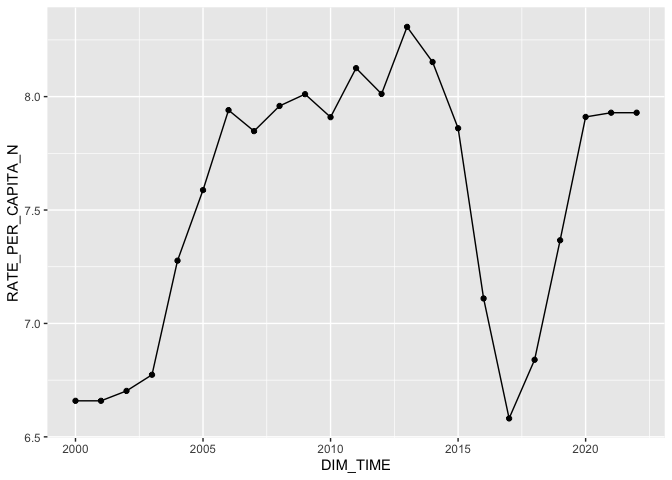
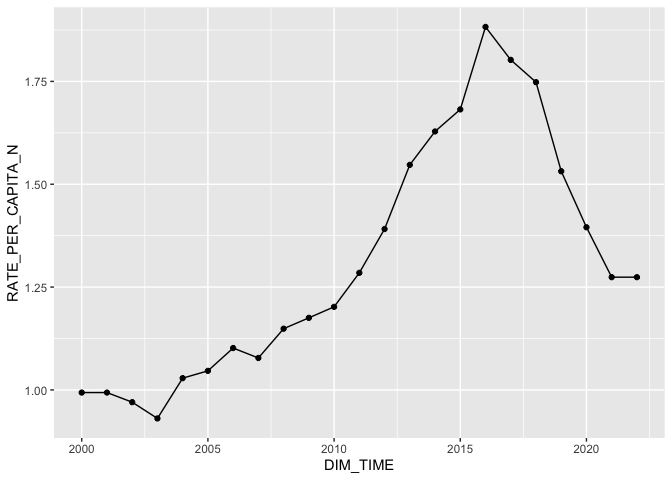
Messing around with plot themes and ribbon plot

diff --git a/simple_graphs.md b/simple_graphs.md
@@ -22,84 +22,84 @@ country <- unique(alcohol_country$GEO_NAME_SHORT)[[sample(1:length(unique(alcoho
 filter(alcohol_country, GEO_NAME_SHORT == country)
 ```
 
-    ##      X GEO_NAME_SHORT ParentLocationCode ParentLocation SpatialDimValueCode
-    ## 1  783          Chile                AMR       Americas                 CHL
-    ## 2  784          Chile                AMR       Americas                 CHL
-    ## 3  785          Chile                AMR       Americas                 CHL
-    ## 4  786          Chile                AMR       Americas                 CHL
-    ## 5  787          Chile                AMR       Americas                 CHL
-    ## 6  788          Chile                AMR       Americas                 CHL
-    ## 7  789          Chile                AMR       Americas                 CHL
-    ## 8  790          Chile                AMR       Americas                 CHL
-    ## 9  791          Chile                AMR       Americas                 CHL
-    ## 10 792          Chile                AMR       Americas                 CHL
-    ## 11 793          Chile                AMR       Americas                 CHL
-    ## 12 794          Chile                AMR       Americas                 CHL
-    ## 13 795          Chile                AMR       Americas                 CHL
-    ## 14 796          Chile                AMR       Americas                 CHL
-    ## 15 797          Chile                AMR       Americas                 CHL
-    ## 16 798          Chile                AMR       Americas                 CHL
-    ## 17 799          Chile                AMR       Americas                 CHL
-    ## 18 800          Chile                AMR       Americas                 CHL
-    ## 19 801          Chile                AMR       Americas                 CHL
-    ## 20 802          Chile                AMR       Americas                 CHL
-    ## 21 803          Chile                AMR       Americas                 CHL
-    ## 22 804          Chile                AMR       Americas                 CHL
-    ## 23 805          Chile                AMR       Americas                 CHL
+    ##       X   GEO_NAME_SHORT ParentLocationCode  ParentLocation SpatialDimValueCode
+    ## 1  2922 Papua New Guinea                WPR Western Pacific                 PNG
+    ## 2  2923 Papua New Guinea                WPR Western Pacific                 PNG
+    ## 3  2924 Papua New Guinea                WPR Western Pacific                 PNG
+    ## 4  2925 Papua New Guinea                WPR Western Pacific                 PNG
+    ## 5  2926 Papua New Guinea                WPR Western Pacific                 PNG
+    ## 6  2927 Papua New Guinea                WPR Western Pacific                 PNG
+    ## 7  2928 Papua New Guinea                WPR Western Pacific                 PNG
+    ## 8  2929 Papua New Guinea                WPR Western Pacific                 PNG
+    ## 9  2930 Papua New Guinea                WPR Western Pacific                 PNG
+    ## 10 2931 Papua New Guinea                WPR Western Pacific                 PNG
+    ## 11 2932 Papua New Guinea                WPR Western Pacific                 PNG
+    ## 12 2933 Papua New Guinea                WPR Western Pacific                 PNG
+    ## 13 2934 Papua New Guinea                WPR Western Pacific                 PNG
+    ## 14 2935 Papua New Guinea                WPR Western Pacific                 PNG
+    ## 15 2936 Papua New Guinea                WPR Western Pacific                 PNG
+    ## 16 2937 Papua New Guinea                WPR Western Pacific                 PNG
+    ## 17 2938 Papua New Guinea                WPR Western Pacific                 PNG
+    ## 18 2939 Papua New Guinea                WPR Western Pacific                 PNG
+    ## 19 2940 Papua New Guinea                WPR Western Pacific                 PNG
+    ## 20 2941 Papua New Guinea                WPR Western Pacific                 PNG
+    ## 21 2942 Papua New Guinea                WPR Western Pacific                 PNG
+    ## 22 2943 Papua New Guinea                WPR Western Pacific                 PNG
+    ## 23 2944 Papua New Guinea                WPR Western Pacific                 PNG
     ##    DIM_TIME DIM_GEO_CODE_M49 DIM_GEO_CODE_TYPE RATE_PER_CAPITA_N
-    ## 1      2019              152           COUNTRY          7.366765
-    ## 2      2021              152           COUNTRY          7.929031
-    ## 3      2005              152           COUNTRY          7.588063
-    ## 4      2007              152           COUNTRY          7.847923
-    ## 5      2008              152           COUNTRY          7.958862
-    ## 6      2013              152           COUNTRY          8.307424
-    ## 7      2012              152           COUNTRY          8.011873
-    ## 8      2003              152           COUNTRY          6.773735
-    ## 9      2009              152           COUNTRY          8.010829
-    ## 10     2020              152           COUNTRY          7.910445
-    ## 11     2017              152           COUNTRY          6.581213
-    ## 12     2004              152           COUNTRY          7.276823
-    ## 13     2011              152           COUNTRY          8.125549
-    ## 14     2006              152           COUNTRY          7.940426
-    ## 15     2002              152           COUNTRY          6.702532
-    ## 16     2001              152           COUNTRY          6.658858
-    ## 17     2010              152           COUNTRY          7.909384
-    ## 18     2015              152           COUNTRY          7.860608
-    ## 19     2000              152           COUNTRY          6.658858
-    ## 20     2016              152           COUNTRY          7.110228
-    ## 21     2022              152           COUNTRY          7.929031
-    ## 22     2014              152           COUNTRY          8.152529
-    ## 23     2018              152           COUNTRY          6.839852
+    ## 1      2011              598           COUNTRY         1.2846370
+    ## 2      2020              598           COUNTRY         1.3953690
+    ## 3      2016              598           COUNTRY         1.8825171
+    ## 4      2004              598           COUNTRY         1.0285521
+    ## 5      2019              598           COUNTRY         1.5316355
+    ## 6      2008              598           COUNTRY         1.1487931
+    ## 7      2021              598           COUNTRY         1.2740612
+    ## 8      2022              598           COUNTRY         1.2740612
+    ## 9      2005              598           COUNTRY         1.0463364
+    ## 10     2007              598           COUNTRY         1.0776421
+    ## 11     2001              598           COUNTRY         0.9935686
+    ## 12     2002              598           COUNTRY         0.9702103
+    ## 13     2012              598           COUNTRY         1.3911395
+    ## 14     2010              598           COUNTRY         1.2019542
+    ## 15     2003              598           COUNTRY         0.9306624
+    ## 16     2013              598           COUNTRY         1.5470708
+    ## 17     2015              598           COUNTRY         1.6818393
+    ## 18     2009              598           COUNTRY         1.1752060
+    ## 19     2006              598           COUNTRY         1.1018029
+    ## 20     2018              598           COUNTRY         1.7481841
+    ## 21     2014              598           COUNTRY         1.6283188
+    ## 22     2017              598           COUNTRY         1.8022852
+    ## 23     2000              598           COUNTRY         0.9935686
     ##    RATE_PER_CAPITA_NL RATE_PER_CAPITA_NU
-    ## 1            6.041574           8.901592
-    ## 2            6.466642           9.436972
-    ## 3            6.183986           9.023551
-    ## 4            6.475829           9.267204
-    ## 5            6.457598           9.536982
-    ## 6            6.859433           9.854076
-    ## 7            6.640024           9.588248
-    ## 8            5.450019           8.158507
-    ## 9            6.523170           9.473966
-    ## 10           6.552837           9.446440
-    ## 11           5.190223           7.961711
-    ## 12           5.879919           8.738891
-    ## 13           6.702356           9.731205
-    ## 14           6.532242           9.478824
-    ## 15           5.364396           8.092976
-    ## 16           5.385002           8.011441
-    ## 17           6.457442           9.416024
-    ## 18           6.487958           9.430019
-    ## 19           5.385002           8.011441
-    ## 20           5.776678           8.540089
-    ## 21           6.466642           9.436972
-    ## 22           6.773106           9.564102
-    ## 23           5.538334           8.265290
+    ## 1           0.7529799           1.944229
+    ## 2           0.7897561           2.121281
+    ## 3           1.1438210           2.755308
+    ## 4           0.5185423           1.696177
+    ## 5           0.8865436           2.336093
+    ## 6           0.6338770           1.851412
+    ## 7           0.7012637           1.964568
+    ## 8           0.7012637           1.964568
+    ## 9           0.5530657           1.678160
+    ## 10          0.5496443           1.734284
+    ## 11          0.4911638           1.605405
+    ## 12          0.4770221           1.605811
+    ## 13          0.8093291           2.076482
+    ## 14          0.6562401           1.887125
+    ## 15          0.4680801           1.588001
+    ## 16          0.8890833           2.352345
+    ## 17          1.0143627           2.523521
+    ## 18          0.6716486           1.809830
+    ## 19          0.5891176           1.775979
+    ## 20          1.0467629           2.595724
+    ## 21          0.9915432           2.387945
+    ## 22          1.0616024           2.649724
+    ## 23          0.4911638           1.605405
 
 ``` r
 print(country)
 ```
 
-    ## [1] "Chile"
+    ## [1] "Papua New Guinea"
 
 Next, plot a scatterplot with a line:
 
@@ -114,8 +114,9 @@ alcohol_country %>%
 <figure>
 <img
 src="simple_graphs_files/figure-gfm/Scatter%20and%20line%20plot-1.png"
-alt="Chile" />
-<figcaption aria-hidden="true">Chile</figcaption>
+alt="Alcohol consuption rate (L/year) per capita, Papua New Guinea" />
+<figcaption aria-hidden="true">Alcohol consuption rate (L/year) per
+capita, Papua New Guinea</figcaption>
 </figure>
 
 Plot made, can I add the upper and lower estimates as well?
@@ -132,9 +133,9 @@ alcohol_country %>%
 <figure>
 <img
 src="simple_graphs_files/figure-gfm/Upper%20and%20lower%20limits-1.png"
-alt="Alcohol consumption per capita + error" />
-<figcaption aria-hidden="true">Alcohol consumption per capita +
-error</figcaption>
+alt="Alcohol consuption rate (L/year) per capita, Papua New Guinea, with errors" />
+<figcaption aria-hidden="true">Alcohol consuption rate (L/year) per
+capita, Papua New Guinea, with errors</figcaption>
 </figure>
 
 Alternatively with error bars:
@@ -149,24 +150,35 @@ alcohol_country %>%
 
 <figure>
 <img src="simple_graphs_files/figure-gfm/Error%20bars-1.png"
-alt="Alcohol consumption per capita + error bars" />
-<figcaption aria-hidden="true">Alcohol consumption per capita + error
-bars</figcaption>
+alt="Alcohol consuption rate (L/year) per capita, Papua New Guinea, with error bars" />
+<figcaption aria-hidden="true">Alcohol consuption rate (L/year) per
+capita, Papua New Guinea, with error bars</figcaption>
 </figure>
 
 Which looks ugly. Try the `geom_ribbon()` function instead.
 
 ``` r
+source("ggplot2_theme_FM.R")
+
 alcohol_country %>% 
   filter(alcohol_country$GEO_NAME_SHORT == country) %>%
   ggplot(aes(x=DIM_TIME, y = RATE_PER_CAPITA_N, ymin = RATE_PER_CAPITA_NL, ymax = RATE_PER_CAPITA_NU)) +
-  geom_line() +
-  geom_ribbon(alpha = 0.25)
+  geom_ribbon(alpha = 0.25, colour = "#BC5F04", fill = "#BC5F04") +
+  geom_line(colour = "#010001") +
+  theme_FM() +
+  labs(title = paste0("Alcohol consumption rate of adults in ", country), 
+       subtitle = "Litres per year per capita",
+       x = NULL,
+       y = "Rate (L/Year) per Capita") +
+  xlim(2000, 2022) +
+  ylim(0, max(alcohol_country$RATE_PER_CAPITA_NU))
 ```
 
 <figure>
 <img src="simple_graphs_files/figure-gfm/Error%20ribbon-1.png"
-alt="Alcohol consumption per capita + error ribbon" />
-<figcaption aria-hidden="true">Alcohol consumption per capita + error
-ribbon</figcaption>
+alt="Alcohol consuption rate (L/year) per capita, Papua New Guinea, with error ribbon" />
+<figcaption aria-hidden="true">Alcohol consuption rate (L/year) per
+capita, Papua New Guinea, with error ribbon</figcaption>
 </figure>
+
+Now the plot looks pretty.
